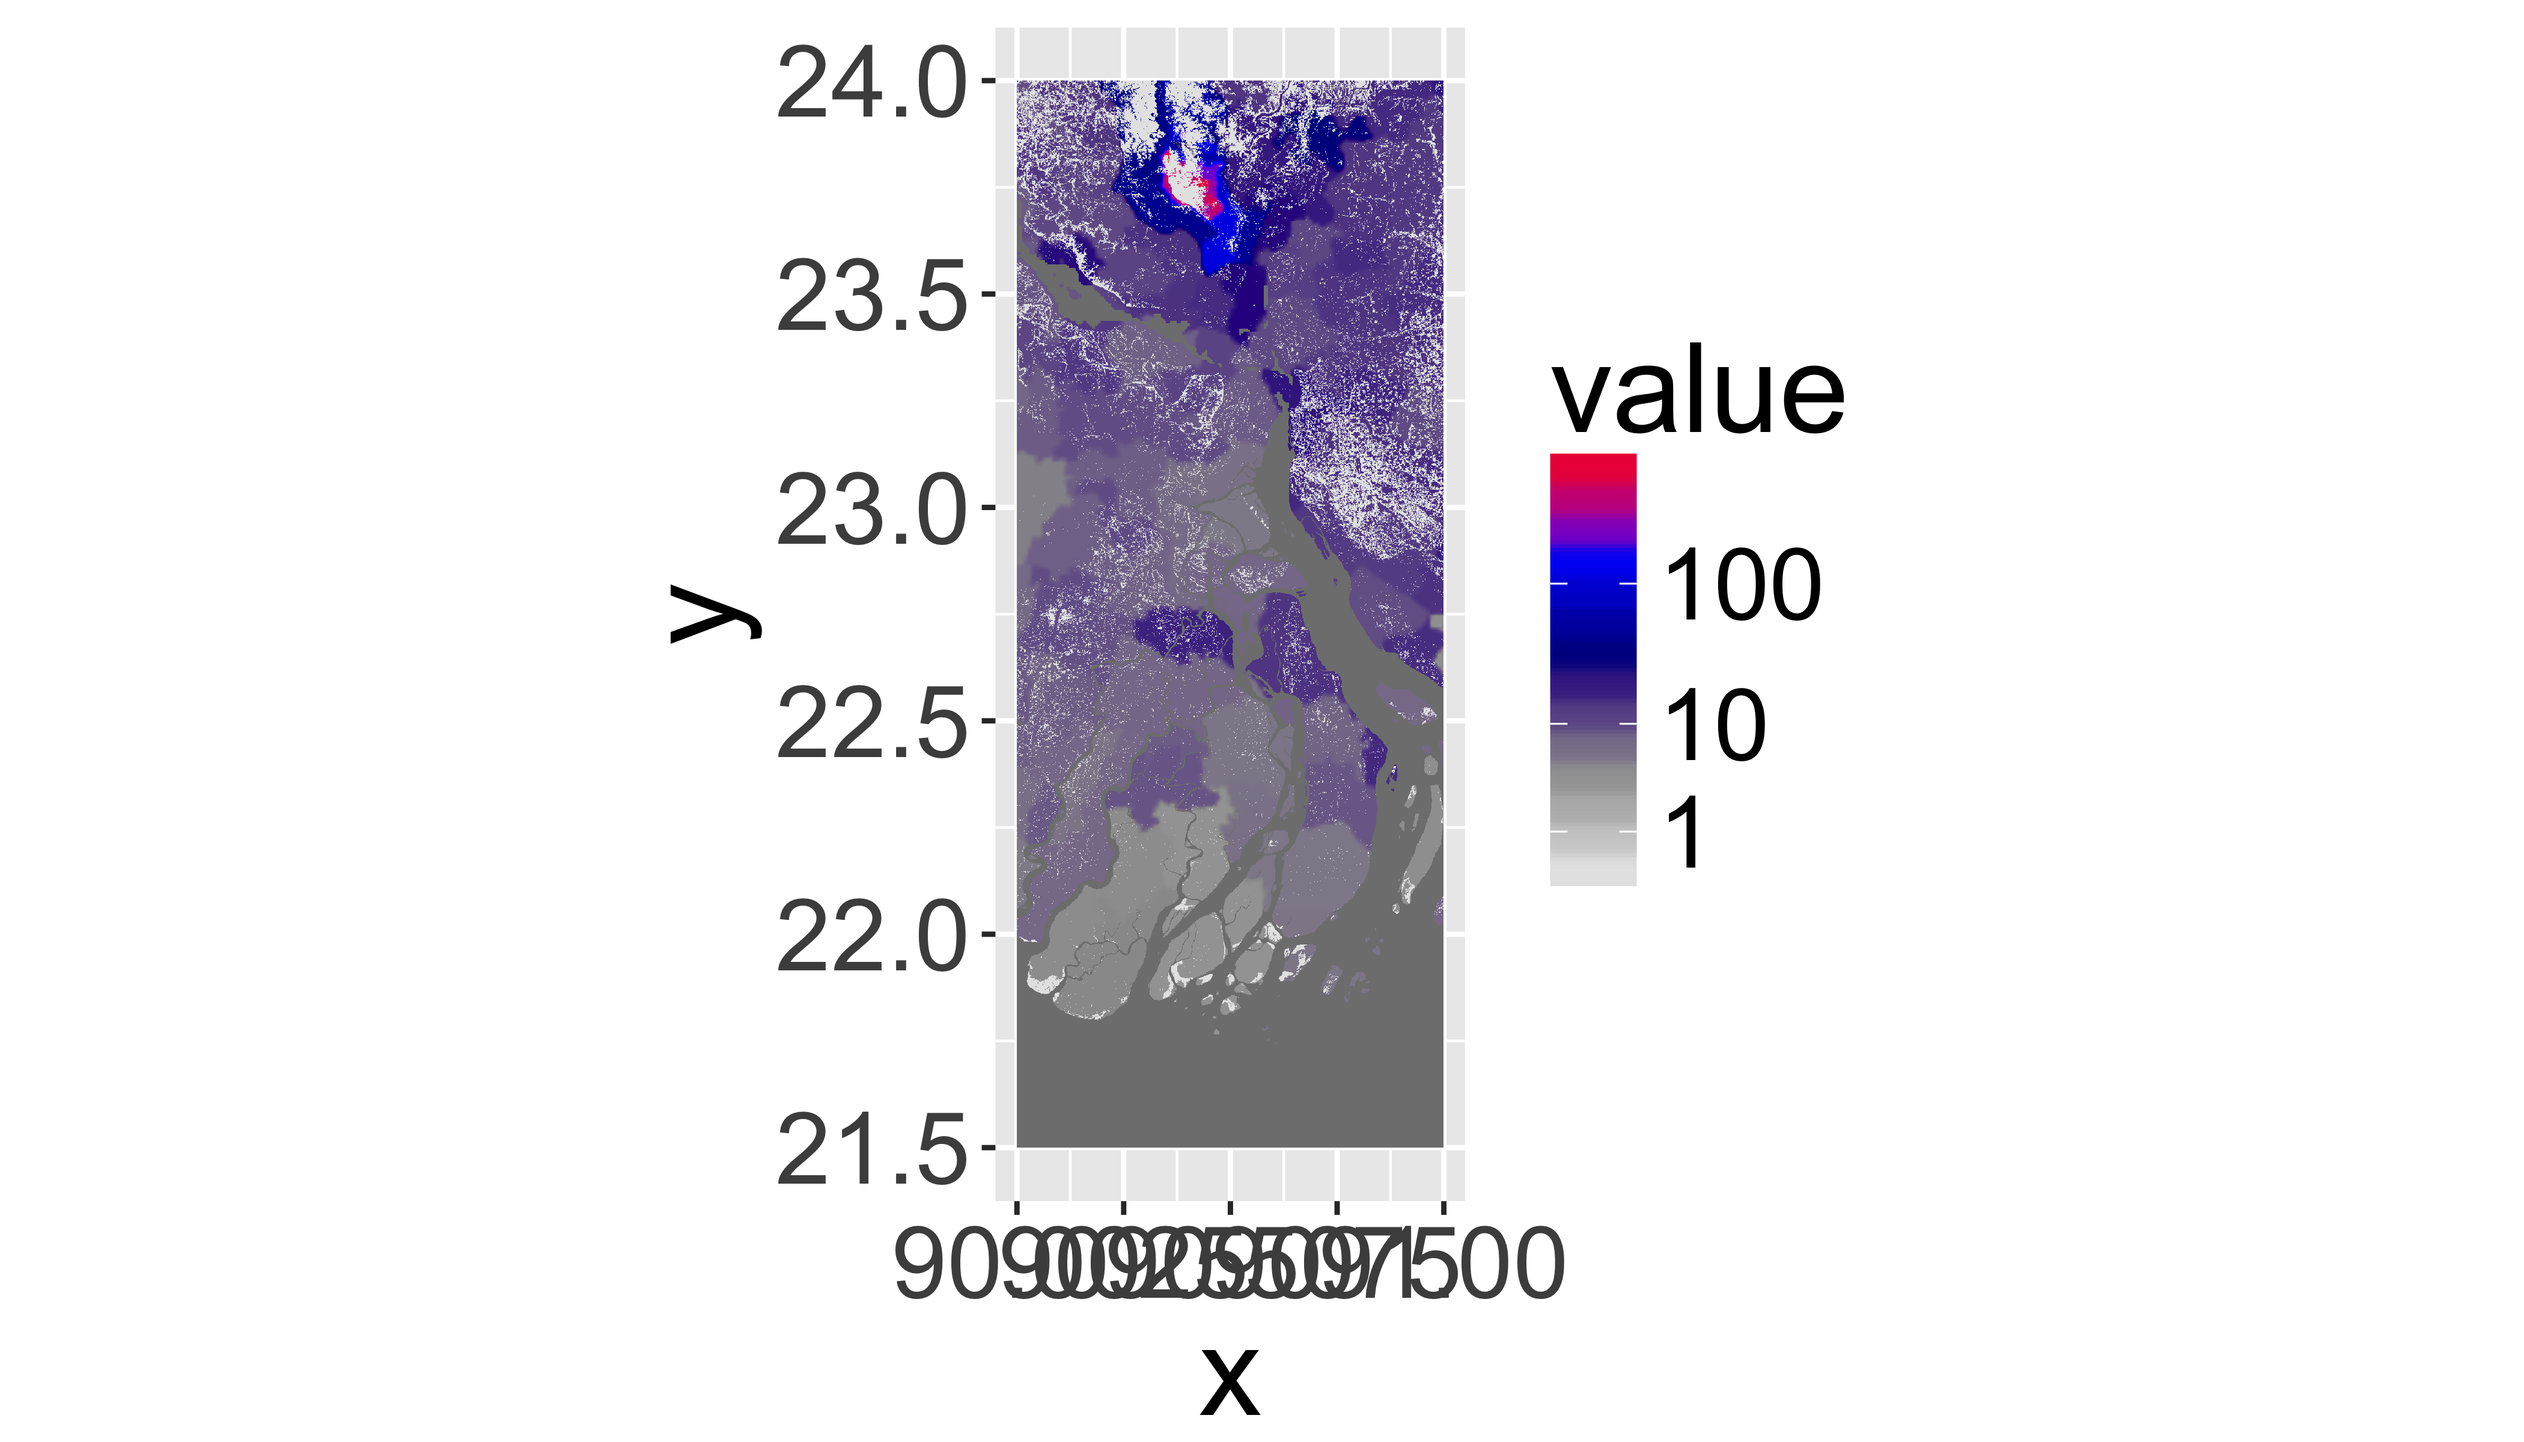
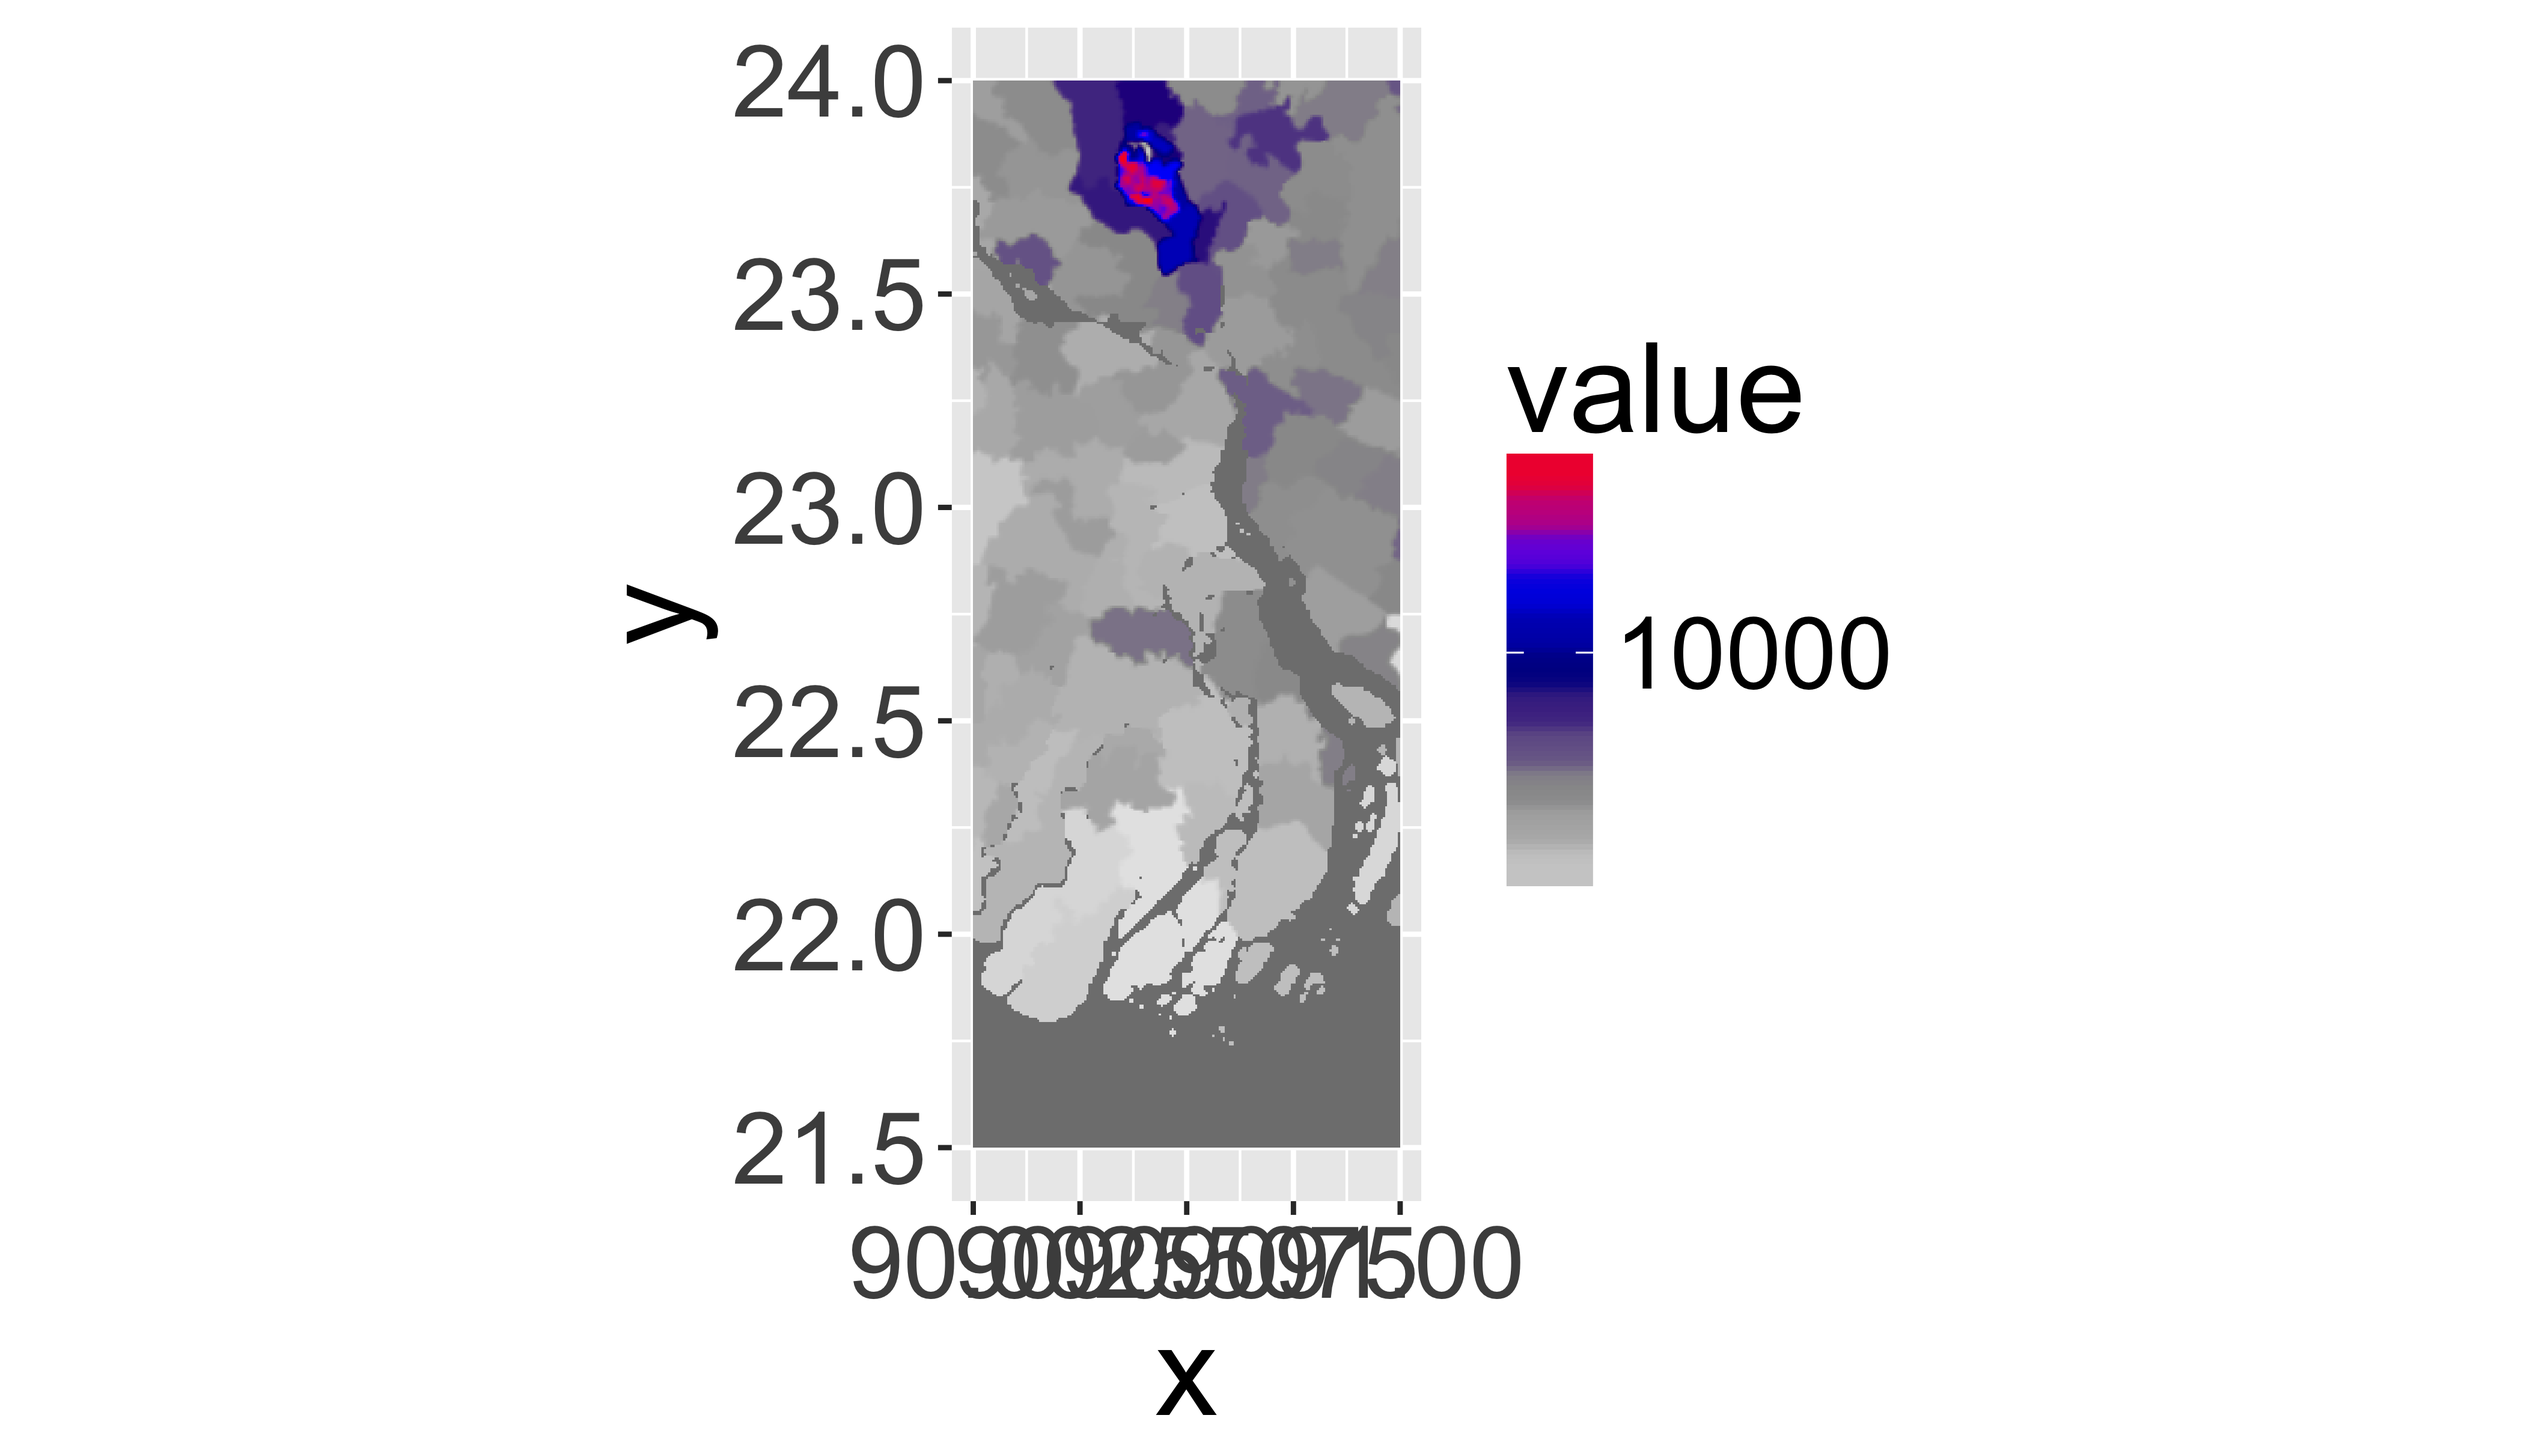
update data link

Changed region(s): [[0.2807, 0.0, 0.7486, 0.9062], [0.4367, 0.9375, 0.499, 1.0], [0.2495, 0.4062, 0.3119, 0.4688]]

diff --git a/docs/06_RasterTwo.html b/docs/06_RasterTwo.html
@@ -839,9 +839,13 @@ gplot(regclass,max=1e5)+
 <h3>Load population data</h3>
 <p>Use <code>raster()</code> to load a raster from disk.</p>
 <pre class="r"><code>pop_global=raster(file.path(datadir,&quot;gpw-v4-population-density-2015/gpw-v4-population-density_2015.tif&quot;))</code></pre>
-<pre class="r"><code>data(bangladesh_population)
+<pre class="r"><code>data(bangladesh_population)</code></pre>
+<p>If the data package isn’t working, download directly from github.</p>
+<pre class="r"><code>tf=tempfile()
+download.file(&quot;https://github.com/adammwilson/DataScienceData/raw/master/data/bangladesh_population.rda&quot;,destfile = tf)
+load(tf)</code></pre>
+<pre class="r"><code>## make a virtual copy with a shorter name for convenience
 
-## make a virtual copy with a shorter name for convenience
 pop=bangladesh_population</code></pre>
 </div>
 <div id="explore-population-data" class="section level3">
@@ -850,7 +854,7 @@ pop=bangladesh_population</code></pre>
   scale_fill_gradientn(colours=c(&quot;grey90&quot;,&quot;grey60&quot;,&quot;darkblue&quot;,&quot;blue&quot;,&quot;red&quot;),
                        trans=&quot;log1p&quot;,breaks= log_breaks(n = 5, base = 10)(c(1, 1e5)))+
   coord_equal()</code></pre>
-<p><img src="06_RasterTwo_files/figure-html/unnamed-chunk-37-1.png" width="2100" /></p>
+<p><img src="06_RasterTwo_files/figure-html/unnamed-chunk-39-1.png" width="2100" /></p>
 </div>
 <div id="resample-to-dem" class="section level3">
 <h3>Resample to DEM</h3>
@@ -896,7 +900,7 @@ gplot(pop_fine,max=1e5)+geom_tile(aes(fill=value))+
     colours=c(&quot;grey90&quot;,&quot;grey60&quot;,&quot;darkblue&quot;,&quot;blue&quot;,&quot;red&quot;),
     trans=&quot;log1p&quot;,breaks= log_breaks(n = 5, base = 10)(c(1, 1e5)))+
   coord_equal()</code></pre>
-<p><img src="06_RasterTwo_files/figure-html/unnamed-chunk-39-1.png" width="2100" /></p>
+<p><img src="06_RasterTwo_files/figure-html/unnamed-chunk-41-1.png" width="2100" /></p>
 <div class="well">
 <h2 id="your-turn-2">Your turn</h2>
 <p>How many people are likely to be displaced?</p>
@@ -920,7 +924,7 @@ cellStats(floodpop2,sum)</code></pre>
     colours=c(&quot;grey90&quot;,&quot;grey60&quot;,&quot;darkblue&quot;,&quot;blue&quot;,&quot;red&quot;),
     trans=&quot;log1p&quot;,breaks= log_breaks(n = 5, base = 10)(c(1, 1e4)))+
   coord_equal()</code></pre>
-<p><img src="06_RasterTwo_files/figure-html/unnamed-chunk-41-1.png" width="2100" /></p>
+<p><img src="06_RasterTwo_files/figure-html/unnamed-chunk-43-1.png" width="2100" /></p>
 </div>
 </div>
 <p>Or resample elevation to resolution of population: 1. First aggregate to approximate spatial resolution 2. Resample to align grids perfectly</p>
@@ -944,11 +948,11 @@ cellStats(floodpop_coarse,sum)</code></pre>
 <pre class="r"><code>popcenter=pop&gt;5000
 popcenter=mask(popcenter,popcenter,maskvalue=0)
 plot(popcenter,col=&quot;red&quot;,legend=F)</code></pre>
-<p><img src="06_RasterTwo_files/figure-html/unnamed-chunk-44-1.png" width="2100" /></p>
+<p><img src="06_RasterTwo_files/figure-html/unnamed-chunk-46-1.png" width="2100" /></p>
 <p>In meters if the RasterLayer is not projected (<code>+proj=longlat</code>) and in map units (typically also meters) when it is projected.</p>
 <pre class="r"><code>popcenterdist=distance(popcenter)
 plot(popcenterdist)</code></pre>
-<p><img src="06_RasterTwo_files/figure-html/unnamed-chunk-45-1.png" width="2100" /></p>
+<p><img src="06_RasterTwo_files/figure-html/unnamed-chunk-47-1.png" width="2100" /></p>
 <div class="well">
 <h2 id="your-turn-3">Your Turn</h2>
 <p>Will sea level rise affect any major population centers?</p>
@@ -971,7 +975,7 @@ plot(flood2);plot(floodpop2,add=T,col=&quot;red&quot;,legend=F);
 bgd%&gt;%
   gSimplify(0.01)%&gt;%
   plot(add=T)</code></pre>
-<p><img src="06_RasterTwo_files/figure-html/unnamed-chunk-46-1.png" width="2100" /></p>
+<p><img src="06_RasterTwo_files/figure-html/unnamed-chunk-48-1.png" width="2100" /></p>
 </div>
 </div>
 </div>
@@ -986,7 +990,7 @@ gplot(dem,max=1e5)+geom_tile(aes(fill=value))+
   coord_cartesian(ylim=c(21.5,24),xlim=c(90,91))+
   geom_path(data=fortify(bgd),aes(x=long,y=lat,group=group),size=.5)+
   geom_path(data=fortify(vpop),aes(x=long,y=lat,group=group),size=1,col=&quot;green&quot;)</code></pre>
-<p><img src="06_RasterTwo_files/figure-html/unnamed-chunk-47-1.png" width="2100" /> Warning: very slow on large rasters…</p>
+<p><img src="06_RasterTwo_files/figure-html/unnamed-chunk-49-1.png" width="2100" /> Warning: very slow on large rasters…</p>
 </div>
 <div id="d-visualization" class="section level2">
 <h2>3D Visualization</h2>
